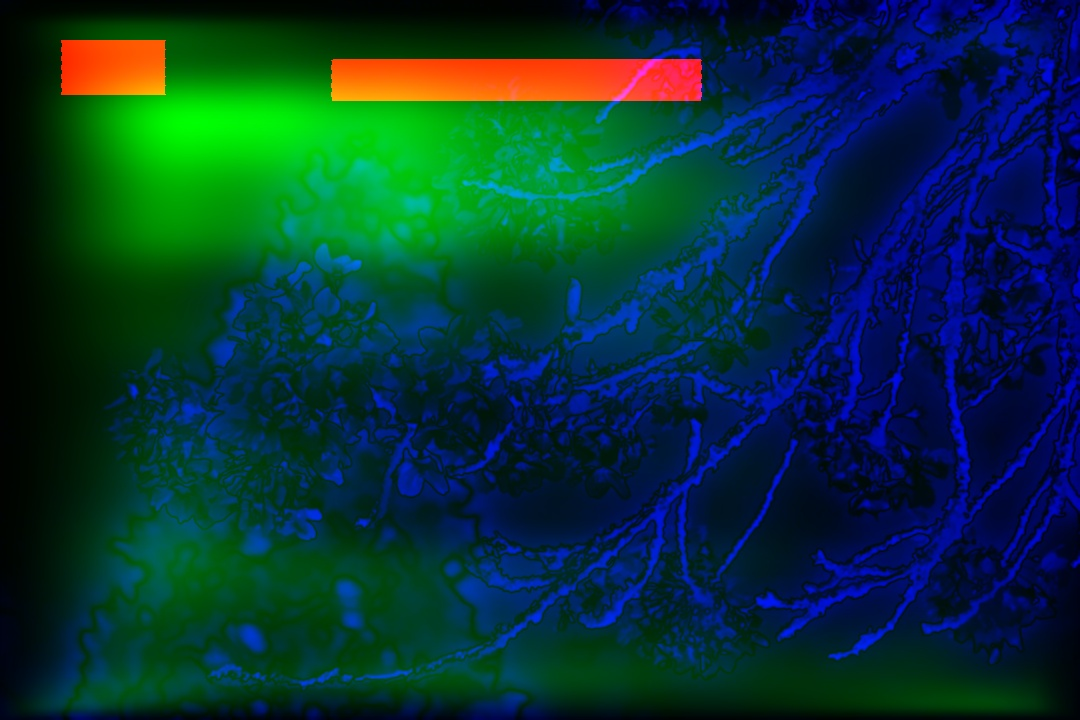
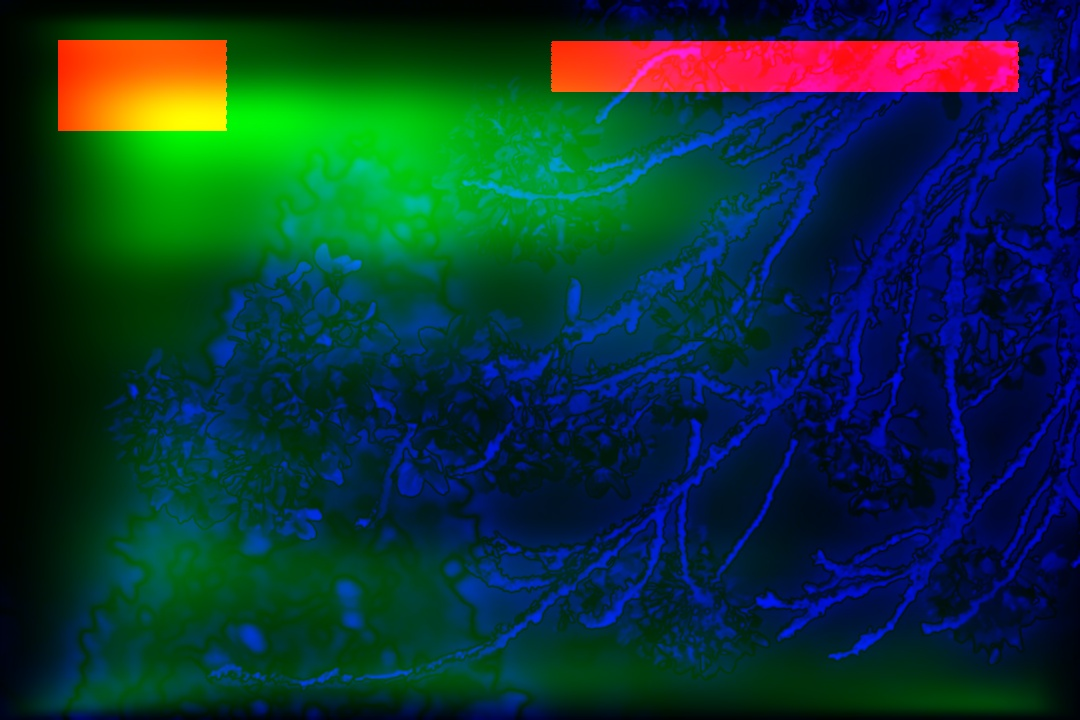
add a Japanese demo

Changed region(s): [[0.3056, 0.0306, 0.9472, 0.1528], [0.0306, 0.0306, 0.2139, 0.1833]]

diff --git a/README.md b/README.md
@@ -164,7 +164,7 @@ python ./background_retriever/unsplash_image_downloader.py
 }
 ```
 
-<img src="./example/outputs_3/2/poster.jpg" alt="poster" height="300" /> <img src="./example/outputs_3/1/poster.jpg" alt="poster" height="300" /> 
+<img src="./example/outputs_3/3/poster.jpg" alt="poster" height="260" /> <img src="./example/outputs_3/1/poster.jpg" alt="poster" height="260" /> 
 
 
 
